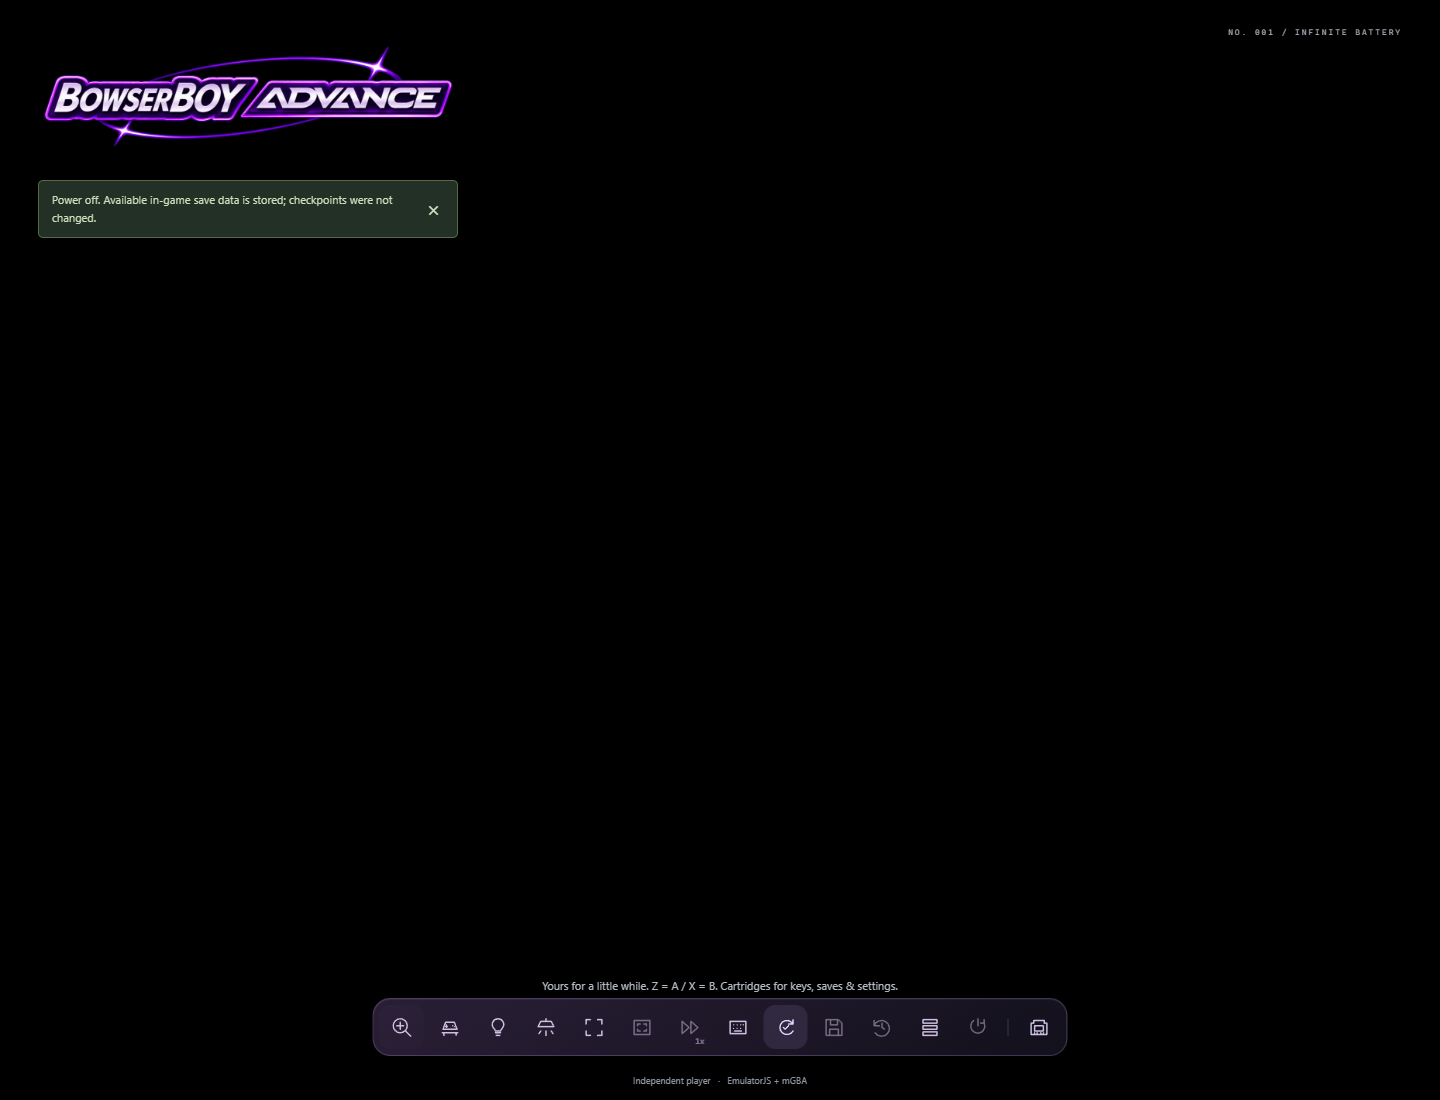
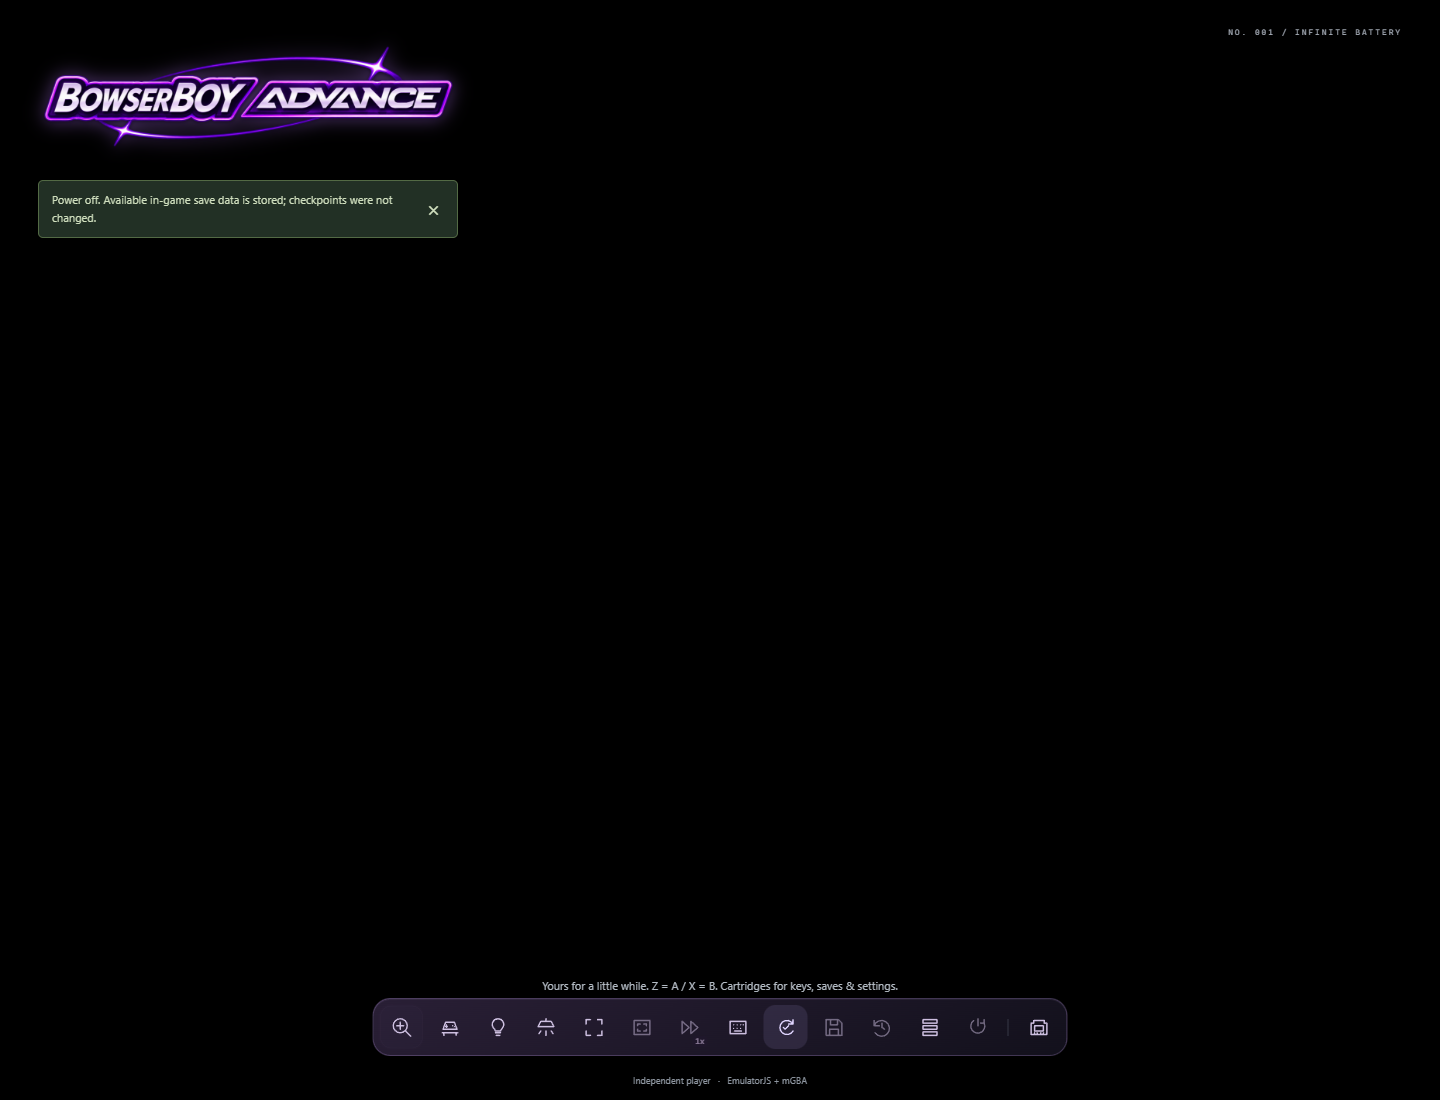
Mold handheld controls and refine play framing
Replace flat markings with same-material relief, share stylized monochrome bezel art, and preserve complete handheld/UI clearance in a closer play view.

Copilot-Session: 8e7d69ac-78f7-4310-8b8d-14bf8681a509

Changed region(s): [[0.0312, 0.0309, 0.3125, 0.1236]]

diff --git a/src/handheld.js b/src/handheld.js
@@ -122,42 +122,56 @@ function buttonCap(radius) {
   return geometry;
 }
 
-function engravedLabel(parent, text, x, y, width, height, color, angle = -.18) {
+const moldedGlyphs = {
+  A: [[0, 0], [.35, 1], [.65, 1], [1, 0], [.78, 0], [.68, .3], [.32, .3], [.22, 0]],
+  B: [[0, 0], [0, 1], [.7, 1], [.94, .82], [.94, .62], [.78, .51], [1, .36], [1, .18], [.74, 0]],
+  C: [[1, .82], [.76, 1], [.24, 1], [0, .76], [0, .24], [.24, 0], [.76, 0], [1, .18], [.85, .35], [.66, .22], [.34, .22], [.22, .34], [.22, .66], [.34, .78], [.66, .78], [.85, .65]],
+  E: [[0, 0], [0, 1], [1, 1], [1, .78], [.22, .78], [.22, .61], [.82, .61], [.82, .39], [.22, .39], [.22, .22], [1, .22], [1, 0]],
+  L: [[0, 0], [0, 1], [.22, 1], [.22, .22], [1, .22], [1, 0]],
+  N: [[0, 0], [0, 1], [.22, 1], [.78, .32], [.78, 1], [1, 1], [1, 0], [.78, 0], [.22, .68], [.22, 0]],
+  R: [[0, 0], [0, 1], [.74, 1], [1, .78], [1, .54], [.76, .35], [1, 0], [.73, 0], [.5, .32], [.22, .32], [.22, 0]],
+  S: [[1, .82], [.76, 1], [.2, 1], [0, .8], [0, .57], [.2, .4], [.72, .4], [.78, .34], [.78, .27], [.71, .2], [.28, .2], [.13, .32], [0, .15], [.2, 0], [.8, 0], [1, .2], [1, .43], [.8, .6], [.28, .6], [.22, .66], [.22, .73], [.29, .8], [.68, .8], [.85, .68]],
+  T: [[0, .78], [0, 1], [1, 1], [1, .78], [.61, .78], [.61, 0], [.39, 0], [.39, .78]],
+  Z: [[0, 1], [1, 1], [1, .82], [.28, .18], [1, .18], [1, 0], [0, 0], [0, .18], [.72, .82], [0, .82]],
+  K: [[0, 0], [0, 1], [.22, 1], [.22, .57], [.72, 1], [1, 1], [.55, .48], [1, 0], [.7, 0], [.34, .34], [.22, .22], [.22, 0]],
+};
+const moldedCounters = {
+  A: [[[.4, .5], [.6, .5], [.5, .8]]],
+  B: [[[.22, .6], [.64, .6], [.72, .66], [.72, .73], [.63, .8], [.22, .8]],
+    [[.22, .2], [.66, .2], [.78, .28], [.78, .32], [.66, .4], [.22, .4]]],
+  R: [[[.22, .55], [.65, .55], [.78, .65], [.78, .72], [.65, .8], [.22, .8]]],
+};
+
+function moldedText(parent, text, width, height, depth, material, x = 0, y = 0, z = 0) {
+  const scale = width / (1 + (text.length - 1) * 1.3);
+  const shapes = [...text].map((letter, index) => {
+    const points = polygon => polygon.map(([px, py]) => new THREE.Vector2(
+      ((index - (text.length - 1) / 2) * 1.3 + px - .5) * scale, (py - .5) * height));
+    const shape = new THREE.Shape(points(moldedGlyphs[letter]));
+    for (const hole of moldedCounters[letter] ?? []) shape.holes.push(new THREE.Path(points(hole)));
+    return shape;
+  });
+  return add(parent, `Raised ${text} lettering`, solid(shapes, depth, .0025), material, x, y, z);
+}
+
+function moldedLabel(parent, text, x, y, width, height, material, angle = -.18) {
   const group = new THREE.Group();
+  group.name = `${text} molded shell label`;
   group.position.set(x, y, .625);
   group.rotation.z = angle;
   const shape = roundedShape(width, height, height / 2);
   shape.holes.push(roundedShape(width - .018, height - .018, height / 2 - .009));
-  const outline = new THREE.Mesh(new THREE.ShapeGeometry(shape), new THREE.MeshStandardMaterial({ color, roughness: .65 }));
-  outline.receiveShadow = true;
-  group.add(outline);
-  label(group, text, width * .73, height * .48, -.04, 0, .002, color, 'italic bold 75px Arial');
+  add(group, `${text} molded outline`, solid(shape, .008, .002), material, 0, 0, .002);
+  moldedText(group, text, width * .64, height * .43, .014, material, -.07, 0, .004);
   parent.add(group);
 }
 
 function makerMark(parent, material) {
-  const glyphs = {
-    Z: [[0, 1], [1, 1], [1, .82], [.28, .18], [1, .18], [1, 0], [0, 0], [0, .18], [.72, .82], [0, .82]],
-    A: [[0, 0], [.35, 1], [.65, 1], [1, 0], [.78, 0], [.68, .3], [.32, .3], [.22, 0]],
-    N: [[0, 0], [0, 1], [.22, 1], [.78, .32], [.78, 1], [1, 1], [1, 0], [.78, 0], [.22, .68], [.22, 0]],
-    R: [[0, 0], [0, 1], [.74, 1], [1, .78], [1, .54], [.76, .35], [1, 0], [.73, 0], [.5, .32], [.22, .32], [.22, 0]],
-    K: [[0, 0], [0, 1], [.22, 1], [.22, .57], [.72, 1], [1, 1], [.55, .48], [1, 0], [.7, 0], [.34, .34], [.22, .22], [.22, 0]],
-  };
-  const holes = {
-    A: [[.4, .5], [.6, .5], [.5, .8]],
-    R: [[.22, .55], [.65, .55], [.78, .65], [.78, .72], [.65, .8], [.22, .8]],
-  };
-  const shapes = [...'ZANARK'].map((letter, index) => {
-    const points = polygon => polygon.map(([x, y]) =>
-      new THREE.Vector2((index - 2.5) * .22 + (x - .5) * .17, (y - .5) * .24));
-    const shape = new THREE.Shape(points(glyphs[letter]));
-    if (holes[letter]) shape.holes.push(new THREE.Path(points(holes[letter])));
-    return shape;
-  });
   const badge = new THREE.Group();
   badge.name = 'Zanark embossed maker mark';
   badge.position.set(0, 2.10, .625);
-  add(badge, 'Raised Zanark lettering', solid(shapes, .018, .003), material, 0, 0, .012);
+  const letters = moldedText(badge, 'ZANARK', 1.27, .24, .018, material, 0, 0, .012);
+  letters.name = 'Raised Zanark lettering';
   const chamfer = (width, height) => [
     [-width / 2 + .09, height / 2], [width / 2 - .09, height / 2],
     [width / 2, height / 2 - .07], [width / 2, -height / 2 + .07],
@@ -178,6 +192,9 @@ export function createHandheld() {
   const seam = new THREE.MeshStandardMaterial({ color: '#29253e', roughness: .85 });
   const bezel = new THREE.MeshStandardMaterial({ color: '#202a29', roughness: .32 });
   const silver = new THREE.MeshPhysicalMaterial({ color: '#d8d9cb', roughness: .36, metalness: 0, clearcoat: .22, clearcoatRoughness: .4 });
+  const rubber = silver.clone();
+  rubber.roughness = .68;
+  rubber.clearcoat = .06;
   const dark = new THREE.MeshStandardMaterial({ color: '#242332', roughness: .85 });
   const shell = new THREE.Shape();
   shell.moveTo(-4.1, 1.45);
@@ -247,8 +264,21 @@ export function createHandheld() {
   const wordmark = canvasTexture(1024, 342, (context, width, height) => {
     context.drawImage(brandImage, 0, 0, width, height);
   });
-  const logo = label(root, 'BOWSERBOY ADVANCE', 2.65, .17, 0, -1.34, .763,
-    '#e2e2e2', 'italic 900 78px Arial');
+  const bezelWordmark = canvasTexture(1536, 174, (context, width, height) => {
+    context.drawImage(brandImage, 25, 250, 2115, 240, 0, 0, width, height);
+    const pixels = context.getImageData(0, 0, width, height);
+    // Keep neutral lettering/highlights; discard the saturated orbital accents.
+    for (let i = 0; i < pixels.data.length; i += 4) {
+      const neutral = Math.min(...pixels.data.subarray(i, i + 3));
+      pixels.data[i + 3] *= THREE.MathUtils.clamp((neutral - 95) / 70, 0, 1);
+      pixels.data[i] = pixels.data[i + 1] = pixels.data[i + 2] = 220;
+    }
+    context.putImageData(pixels, 0, 0);
+  });
+  const logo = add(root, 'Monochrome bezel wordmark', new THREE.PlaneGeometry(3.05, .346),
+    new THREE.MeshStandardMaterial({ map: bezelWordmark, transparent: true, depthWrite: false, roughness: .65 }),
+    0, -1.34, .763);
+  logo.castShadow = false;
   logo.name = 'Monochrome bezel wordmark';
 
   const controls = new Map();
@@ -267,7 +297,7 @@ export function createHandheld() {
   const well = new THREE.Path();
   well.absarc(0, 0, .135, 0, Math.PI * 2, true);
   padFace.holes.push(well);
-  const pad = add(root, 'D-pad', solid(padFace, .07, .015), silver, -3.2, .26, .655);
+  const pad = add(root, 'D-pad', solid(padFace, .07, .015), rubber, -3.2, .26, .655);
   for (const [id, x, y, rotation] of [
     ['up', 0, .40, 0], ['down', 0, -.40, Math.PI],
     ['left', -.40, 0, Math.PI / 2], ['right', .40, 0, -Math.PI / 2],
@@ -278,11 +308,8 @@ export function createHandheld() {
     control(id, pad, .39, .39, anchor);
     const triangle = new THREE.Shape();
     triangle.moveTo(0, .055); triangle.lineTo(-.055, -.04); triangle.lineTo(.055, -.04); triangle.closePath();
-    const arrow = new THREE.Mesh(new THREE.ShapeGeometry(triangle), new THREE.MeshStandardMaterial({ color: '#a5ad9b', roughness: .65 }));
-    arrow.position.copy(anchor.position);
+    const arrow = add(pad, `Raised ${id} arrow`, solid(triangle, .008, .002), rubber, x, y, .055);
     arrow.rotation.z = rotation;
-    arrow.receiveShadow = true;
-    pad.add(arrow);
   }
   add(pad, 'D-pad pivot well', new THREE.CircleGeometry(.135, 32), silver, 0, 0, .03);
   for (const { id, x, y, opening, radius, z, size } of roundControls) {
@@ -290,15 +317,15 @@ export function createHandheld() {
     const name = action ? id.toUpperCase() : id;
     const floor = add(root, `${name} socket`, new THREE.CircleGeometry(opening, 40), dark, x, y, .582);
     floor.castShadow = false;
-    const button = add(root, `${name} button`, buttonCap(radius), silver, x, y, z);
-    if (action) label(button, id.toUpperCase(), .25, .28, 0, -.005, .067, '#a2aa99', 'bold 95px Arial');
-    else engravedLabel(root, id.toUpperCase(), x - .43, y + .04, 1.02, .32, '#766c9f');
+    const button = add(root, `${name} button`, buttonCap(radius), rubber, x, y, z);
+    if (action) moldedText(button, id.toUpperCase(), .15, .20, .012, rubber, 0, 0, .059);
+    else moldedLabel(root, id.toUpperCase(), x - .43, y + .04, 1.02, .32, purple);
     control(id, button, size, size);
   }
   for (const [id, x] of [['l', -3.45], ['r', 3.45]]) {
     const button = add(root, `${id.toUpperCase()} shoulder`, box(1.3, .39, .7, .12), silver, x, 1.81, .15);
     button.rotation.z = id === 'l' ? .16 : -.16;
-    label(button, id.toUpperCase(), .22, .13, 0, .17, .39, '#8e9687');
+    moldedText(button, id.toUpperCase(), .095, .10, .01, silver, 0, .17, .39);
     const anchor = new THREE.Object3D();
     anchor.position.set(0, .22, .39);
     button.add(anchor);
@@ -306,14 +333,12 @@ export function createHandheld() {
   }
   const led = add(root, 'Power light', cylinder(.09, .04),
     new THREE.MeshStandardMaterial({ color: '#495537', emissive: '#000000', roughness: .25 }), 2.85, 1.43, .64);
-  label(root, 'POWER', .62, .11, 3.38, 1.43, .625, '#a99bc4', 'bold 70px Arial');
   for (const slot of speakerSlots) {
     const floor = add(root, 'Recessed speaker grille',
       new THREE.ShapeGeometry(roundedShape(slot.width, slot.height, .03)), dark, slot.x, slot.y, .581);
     floor.rotation.z = slot.angle;
     floor.castShadow = false;
   }
-  label(root, 'BBA-001', .6, .09, -3.02, -1.95, .63, '#81739e');
   const powerMount = new THREE.Group();
   powerMount.name = 'Underside power assembly';
   powerMount.position.set(1.55, -2.385, .12);
@@ -351,7 +376,7 @@ export function createHandheld() {
     add(root, 'Screw', cylinder(.065, .035), silver, x, y, -.55);
     add(root, 'Screw slot', new THREE.BoxGeometry(.078, .015, .005), dark, x, y, -.572);
   }
-  return { root, screen, recess, controls, led, cartridge };
+  return { root, screen, recess, controls, led, cartridge, wordmark: bezelWordmark };
 }
 
 export function createCartridge(color, title, subtitle) {

diff --git a/styles.css b/styles.css
@@ -133,7 +133,7 @@ body.dragging #scene-canvas { outline: 4px solid #f6e5aa; outline-offset: -4px; 
 #screen-focus-bezel { position: relative; flex: none; width: min(100cqw, calc(100cqh * 447 / 339)); aspect-ratio: 447 / 339; min-width: 0; min-height: 0; border-radius: 6.7% / 8.8%; background: linear-gradient(150deg, #242522, #090a09 18%, #111210 85%, #242522); box-shadow: inset 0 0 0 2px #4c4837, inset 0 0 0 7px #090a09, 0 0 30px #000; transform: scale(var(--screen-zoom, 1)); container-type: inline-size; }
 /* Match the physical bezel's 4.47 x 3.39 surround and complete 4.05 x 2.7 LCD. */
 #screen-focus-canvas { position: absolute; left: 4.69799%; top: 6.63717%; display: block; width: 90.60403%; height: auto; aspect-ratio: 3 / 2; outline-offset: -4px; }
-.screen-focus-wordmark { position: absolute; bottom: 4.5%; left: 0; width: 100%; text-align: center; color: #d3d3d3; font: italic 900 2.7cqw/1 Arial, sans-serif; }
+.screen-focus-wordmark { position: absolute; bottom: 2.4%; left: 15.9%; width: 68.2%; height: auto; aspect-ratio: 1536 / 174; pointer-events: none; }
 .screen-focus-zoom { position: absolute; right: max(16px, env(safe-area-inset-right)); bottom: max(16px, env(safe-area-inset-bottom)); display: flex; align-items: center; gap: 10px; min-height: 48px; max-width: calc(100% - 32px); padding: 8px 12px; border: 1px solid #b18bd84d; border-radius: 14px; background: linear-gradient(150deg, #2c2139ef, #14121eee); box-shadow: 0 0 24px #a763e51a; font: 11px var(--mono); }
 #screen-focus-zoom { width: min(140px, 35vw); height: 30px; margin: 0; accent-color: #bf99ed; cursor: pointer; }
 #screen-focus-zoom-value { min-width: 4ch; text-align: right; color: #ede2ff; }

diff --git a/src/scene.js b/src/scene.js
@@ -207,12 +207,14 @@ export class HandheldScene {
       const tangent = Math.tan(THREE.MathUtils.degToRad(this.camera.fov / 2));
       const padding = 180;
       const inserting = this.mode === 'playing' && !!this.cartridgeMotion;
+      const closePlay = this.mode === 'playing' && !inserting;
       const lift = inserting ? 1.05 : 0;
       this.playTarget = playPosition.clone().add(new THREE.Vector3(0, inserting ? -.86 : 0, 0));
-      const distance = Math.max(10.2 / this.camera.aspect, (inserting ? 8.3 : 5.55) *
+      const distance = Math.max((closePlay ? 9.8 : 10.2) / this.camera.aspect, (inserting ? 8.3 : closePlay ? 5.35 : 5.55) *
         this.height / Math.max(160, this.height - padding)) / (2 * tangent);
-      this.cameraTarget = new THREE.Vector3(0, this.playTarget.y + .1 + lift, distance * this.zoom);
-      this.lookTarget = this.playTarget.clone().add(new THREE.Vector3(0, lift, 0));
+      const framingOffset = closePlay ? -.12 : 0;
+      this.cameraTarget = new THREE.Vector3(0, this.playTarget.y + .1 + lift + framingOffset, distance * this.zoom);
+      this.lookTarget = this.playTarget.clone().add(new THREE.Vector3(0, lift + framingOffset, 0));
     }
   }
 

diff --git a/src/app.js b/src/app.js
@@ -857,6 +857,12 @@ try {
     },
     onError: (error) => { console.error('3D graphics:', error); notice(error.message, true); },
   });
+  const wordmark = $('screen-focus-wordmark');
+  wordmark.width = view.model.wordmark.image.width;
+  wordmark.height = view.model.wordmark.image.height;
+  const wordmarkContext = wordmark.getContext('2d');
+  if (!wordmarkContext) throw new Error('Canvas drawing is unavailable. The fullscreen bezel could not be created.');
+  wordmarkContext.drawImage(view.model.wordmark.image, 0, 0);
 } catch (error) {
   console.error('Creating the 3D scene:', error);
   sceneFailure = new Error(`The 3D handheld needs WebGL 2 and could not start: ${error.message}`);

diff --git a/index.html b/index.html
@@ -69,7 +69,7 @@
       <div id="screen-focus" role="region" hidden aria-label="Fullscreen game screen">
         <div id="screen-focus-bezel">
           <canvas id="screen-focus-canvas" tabindex="0" aria-label="Live game screen. Use your configured keyboard controls. Escape exits fullscreen."></canvas>
-          <span class="screen-focus-wordmark" aria-hidden="true">BOWSERBOY ADVANCE</span>
+          <canvas id="screen-focus-wordmark" class="screen-focus-wordmark" aria-hidden="true"></canvas>
         </div>
         <button id="screen-focus-close" aria-label="Exit screen fullscreen"></button>
         <div class="screen-focus-zoom">

diff --git a/docs/ARCHITECTURE.md b/docs/ARCHITECTURE.md
@@ -135,13 +135,22 @@ audio quality remain separate qualification boundaries.
 ## Actual 3D handheld and native CRT screen
 
 `src/handheld.js` constructs original beveled front/rear shells, a volumetric
-bezel, buttons, speaker, ports, battery cover and screws. Lettering, the wood
-grain and decorative cartridge labels are locally drawn canvas textures, not
-reference photographs, commercial artwork or copied manufacturer logos.
-The front bezel uses grayscale text on a physically lit label material, rather
-than the supplied colored orbital image. The top ZANARK maker mark uses original
-polygon glyphs, actual beveled extrusion and a chamfered frame in matching shell
-plastic. The rear battery cover retains the unchanged supplied purple artwork.
+bezel, buttons, speaker, ports, battery cover and screws. Wood grain and
+decorative cartridge labels are locally drawn canvas textures, not reference
+photographs or copied manufacturer logos. Shared original polygon glyphs with
+proper counters and beveled extrusion form A/B, L/R, START/SELECT and ZANARK;
+D-pad arrows also have real depth. Cap markings share their parent's material
+and move with it; START/SELECT and their outline share the shell plastic.
+The cream rubber caps retain their color with rougher, less glossy surfaces.
+The front POWER/BBA-001 decals are removed, not the LED or underside label.
+
+The front bezel derives a 1536x174 monochrome texture from the supplied image's
+lettering band (25,250,2115,240). Neutral-highlight alpha masking removes
+saturated orbital accents, while RGB is uniformly 220. This keeps distinctive
+letterforms without stars or modifying the source PNG. The physical label uses
+a lit transparent material; warm room illumination can tint its appearance.
+The top ZANARK maker mark retains a chamfered matching-plastic frame.
+The rear battery cover retains the unchanged supplied purple artwork.
 `src/scene.js` owns the WebGL 2 renderer, lights/shadows, raycast picking and
 animated table/play/inspection poses. Inspection supports dragging, touch
 rotation/pinch, wheel zoom and keyboard rotation/reset. Reduced motion skips
@@ -206,7 +215,11 @@ out of the lower underside edge, within the shell thickness, not the front face.
 The cap moves locally along that mount; its registered anchor still drives the
 minimum 44-by-44-pixel target. Short-height play framing retains the same 180px
 reserve as desktop, keeping the complete lower-edge target above the icon dock.
-Shell scale, actual power lifecycle and normal desktop framing are unchanged.
+Shell scale and actual power lifecycle are unchanged. Normal play alone uses
+9.8/5.35 horizontal/vertical fit envelopes instead of 10.2/5.55, with a -0.12
+world-Y camera/look offset: about four percent closer, not a model stretch.
+Inspection retains 10.2/5.55 and cartridge insertion 10.2/8.3. The 180px reserve
+remains, preserving landscape target/dock clearance.
 
 ### Physical cartridge insertion
 
@@ -328,7 +341,9 @@ tools, rather than only the source iframe.
 
 The separate screen-only fullscreen target copies the same retained post-shader
 framebuffer already feeding the LCD. A lightweight CSS bezel matches the physical
-4.47-by-3.39 surround, complete 4.05-by-2.7 LCD and monochrome printed wordmark.
+4.47-by-3.39 surround, complete 4.05-by-2.7 LCD and monochrome wordmark.
+At initialization its separate decorative canvas copies the exact physical
+bezel texture, avoiding divergent fonts or a second artwork transformation.
 The picture remains 3:2: a definite viewport-sized, min-size-zero flex container
 fits the bezel to both available dimensions, leaving black margins. This avoids
 the previous grid track's intrinsic canvas sizing overflowing the viewport.
@@ -563,7 +578,7 @@ asset; no alternate-color assets or switcher are shipped.
 The public allowlist includes PNG and the development
 server supplies image/png MIME. Responsive dimensions preserve the raster's
 aspect ratio. The supplied rear-shell/startup image is not recreated or recolored;
-the front bezel deliberately uses separate monochrome lettering.
+the front bezel deliberately derives star-free monochrome lettering from it.
 See supplied-artwork provenance
 in THIRD_PARTY_NOTICES.md. The active SVG favicon replaces the earlier generic
 rounded/infinity icon and subsequent star icon; relative HTML/SVG paths preserve

diff --git a/docs/VERIFICATION.md b/docs/VERIFICATION.md
@@ -12,7 +12,36 @@ Syntax, build and all 11 units pass. Existing artwork/responsive-header and
 branding/notice browser cases pass in 13.7s, including 1440/390/320px fit.
 Actual warm, lights-off, room-lit and phone captures are reviewed against an
 unfiltered baseline with zero browser page errors. This is local browser
-qualification; normal deployment and independent public verification are pending.
+qualification. Release `59fd5628e3ada8f48660e252e6186812e4d7d936` /
+Pages `41860686680` subsequently reports success. Independent verification
+matches all 28 exact public assets, including the header glow CSS.
+
+## Molded markings and closer play framing
+
+Real beveled same-material relief replaces control printing; raycasts reject
+the removed front POWER/BBA-001 planes. The bezel's star-free monochrome
+lettering and fullscreen decorative canvas are pixel-identical. The original
+supplied PNG and native framebuffer remain unchanged.
+
+Syntax/build and all 11 units pass. Six focused Edge cases pass in 1.2m:
+branding, responsive artwork, both real cartridge insertions, pressed-cap
+lighting and mapped-input/native illumination. The final five-size framing/
+underside case passes in 28.8s. Explicit Chromium/SwiftShader passes branding,
+five-size framing and pressed-cap lighting in 1.7m. The actual native
+quick-actions/fullscreen/save/restart case also passes after the shared canvas
+change. Reviewed actual local captures cover 1920x1080, 1440x1100, 844x390,
+390x844, 320x568, room lighting and oblique relief; zero browser page errors.
+
+Initial framing assertions fail: projected axis-aligned bounding-box corners
+include empty/hidden space, and the transparent header's rectangle is not its
+visible ink. The final test projects actual visible vertices and rasterizes
+shell/shoulder triangles against actual logo alpha. It preserves all existing
+44px power-target, LCD/dock clearance, raycast, travel and input assertions.
+The initial camera is also made slightly less aggressive after visual review.
+Current fit uses 9.8/5.35 and -0.12 Y for normal play only; original insertion
+and inspection framing remain. These are local browser qualifications, not
+physical-device testing or user aesthetic approval. Normal release and
+independent production verification remain pending.
 
 ## Deployed underside power and all CRT presets
 

diff --git a/docs/GUIDE.md b/docs/GUIDE.md
@@ -58,9 +58,14 @@ physical cap, track and label; this is not a mockup.*
 A short orbital-logo reveal, revolving stars and synthesized chime play on the actual LCD only when switching
 from off to on. The chime follows volume/mute; reduced motion uses a static reveal.
 The supplied transparent wordmark also appears on the rear shell, idle/loading
-LCD and settings panels. The front bezel instead has plain monochrome printed
-lettering; an original geometric **ZANARK** badge is raised in the shell's own
-plastic above the screen. The active favicon is an original indigo handheld whose
+LCD and settings panels. The front bezel uses the supplied logo's distinctive
+lettering in monochrome, without stars; screen-only fullscreen shares that artwork.
+A/B, shoulder letters and D-pad arrows are raised in their button material;
+START/SELECT and the geometric **ZANARK** badge are molded in the shell's plastic.
+There is no front POWER or BBA-001 print; the power light remains.
+Normal play is slightly closer while retaining the whole handheld and clear UI;
+inspection and cartridge insertion retain their separate framing.
+The active favicon is an original indigo handheld whose
 stepped shoulders and bowed lower edge match the actual 3D shell.
 
 ![The original power-on sequence on the handheld LCD](images/startup.png)

diff --git a/docs/MEDIA.md b/docs/MEDIA.md
@@ -8,6 +8,11 @@ This is the user's explicit policy for this repository, not a portfolio-wide rul
 
 ## Sources and boundaries
 
+The existing README GIFs remain historical footage from the releases cited below:
+they do not yet depict the later molded controls, stylized bezel or closer play
+framing. The lighting/power-off figures are refreshed by the current local
+mapped-input regression; production provenance will follow normal publication.
+
 - `images/orbital-logo.gif` animates the supplied transparent purple logo and the
   supplied sparkle, glow and orbit effects on a transparent background, without
   a purple rectangular backdrop or background starfield. GIF supports binary transparency, so soft
